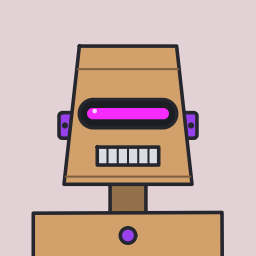
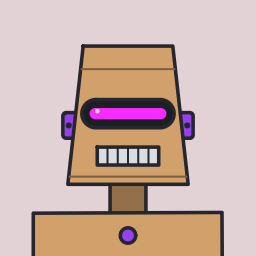
Make tall heads slightly narrower
Tall heads are now 470 wide instead of 500. The visor narrows from 380
to 360 on every robot so it keeps its clearance inside the narrower
trapezoid-family heads. The lower-rivet lift is measured from the normal
head's side, since the mouth it avoids is always at the center.

diff --git a/robot/part_head.go b/robot/part_head.go
@@ -52,8 +52,16 @@ var headPaths = map[string]func(dc *gg.Context, b Layout){
 }
 
 // cornerRadius is the bottom-corner radius of each head shape (0 if sharp).
-// The inverted dome's bottom is a half circle: corners of half its width.
-var cornerRadius = map[string]float64{"square": 18, "rounded": 120, "inverted-dome": headBox.W / 2}
+var cornerRadius = map[string]float64{"square": 18, "rounded": 120}
+
+// bottomRadius is the radius of the head's bottom corners; the inverted
+// dome's bottom is a half circle, so its corners are half the head's width.
+func bottomRadius(head string, b Layout) float64 {
+	if head == "inverted-dome" {
+		return b.W / 2
+	}
+	return cornerRadius[head]
+}
 
 // trapezoidInset is how far the trapezoid head's narrow end (its top, or its
 // bottom when inverted) sits inside the box.
@@ -80,7 +88,7 @@ func leftEdge(head string, b Layout, y float64) float64 {
 		dy := b.Y + r - y
 		return b.CX() - math.Sqrt(max(0, r*r-dy*dy))
 	}
-	r := cornerRadius[head]
+	r := bottomRadius(head, b)
 	if dy := y - (b.Y + b.H - r); r > 0 && dy > 0 {
 		x += r - math.Sqrt(max(0, r*r-dy*dy))
 	}

diff --git a/robot/part_details.go b/robot/part_details.go
@@ -15,10 +15,10 @@ func drawPanels(c *canvas, s Spec, b Layout) {
 const (
 	rivetRadius = 12.0
 	rivetInset  = 45.0 // distance in from the head's edge
-	// maxRivetEdge is how far in from the box side the head's edge may be at
-	// the lower rivets' height; on heads that narrow more than this toward
-	// the bottom (the inverted dome), the lower rivets move up instead of
-	// crowding the mouth.
+	// maxRivetEdge is how far in from the normal head box's side the head's
+	// edge may be at the lower rivets' height; on heads that narrow more than
+	// this toward the bottom, the lower rivets move up instead of crowding
+	// the mouth, which is always at the center.
 	maxRivetEdge = 60.0
 )
 
@@ -27,7 +27,7 @@ const (
 func rivetCenters(s Spec, b Layout) [][2]float64 {
 	f := faceBox(b)
 	lower := f.Y + f.H - 50
-	for lower > f.Y+f.H*0.55 && leftEdge(s.Head, b, lower)-b.X > maxRivetEdge {
+	for lower > f.Y+f.H*0.55 && leftEdge(s.Head, b, lower) > headBox.X+maxRivetEdge {
 		lower -= 2
 	}
 	var centers [][2]float64

diff --git a/robot/part_eyes.go b/robot/part_eyes.go
@@ -47,7 +47,7 @@ func roundEyeCenters(s Spec, b Layout) [][2]float64 {
 
 // The widest and tallest eye styles, which bound how far the face can move.
 const (
-	visorHalfWidth = 190 // half the visor's width
+	visorHalfWidth = 180 // half the visor's width
 	cyclopsRadius  = 95
 )
 
@@ -74,10 +74,11 @@ var eyeParts = map[string]part{
 		glow, y := parseHex(s.Glow), eyeY(s, b)
 		c.dc.DrawRoundedRectangle(b.CX()-visorHalfWidth, y-55, 2*visorHalfWidth, 110, 55)
 		c.fillOutlined(screen)
-		c.dc.DrawRoundedRectangle(b.CX()-160, y-22, 320, 44, 22)
+		bar := visorHalfWidth - 30.0 // the glow bar sits 30 in from the visor's ends
+		c.dc.DrawRoundedRectangle(b.CX()-bar, y-22, 2*bar, 44, 22)
 		c.dc.SetColor(glow)
 		c.dc.Fill()
-		highlight(c, b.CX()-130, y-10, 9)
+		highlight(c, b.CX()-bar+30, y-10, 9)
 	},
 	"cyclops": drawHAL,
 	"led": func(c *canvas, s Spec, b Layout) {

diff --git a/robot/render_test.go b/robot/render_test.go
@@ -390,7 +390,9 @@ func TestRenderHeadShapes(t *testing.T) {
 		{"dome", false, [2]float64{262, 700}, [2]float64{262, 290}},               // round top, square bottom
 		{"square", true, [2]float64{500, 215}, [2]float64{500, 215 + 400}},        // tall reaches y 180
 		{"square", false, [2]float64{500, 300}, [2]float64{500, 215}},             // normal starts at y 260
-		{"inverted-dome", true, [2]float64{275, 215}, [2]float64{275, 700}},
+		{"inverted-dome", true, [2]float64{285, 215}, [2]float64{285, 700}},
+		{"square", false, [2]float64{262, 400}, [2]float64{235, 400}}, // normal width reaches x 250
+		{"rounded", true, [2]float64{278, 400}, [2]float64{256, 400}}, // tall is narrower: reaches x 265
 	}
 	for _, c := range cases {
 		tall := c.tall

diff --git a/robot/canvas.go b/robot/canvas.go
@@ -25,12 +25,12 @@ type Layout struct{ X, Y, W, H float64 }
 func (b Layout) CX() float64 { return b.X + b.W/2 }
 
 // headBox is where a normal-height head is drawn, and tallHeadBox a tall
-// one: the same bottom, extended upward. Parts on the head's top (antenna,
+// one: the same bottom, extended upward and slightly narrower. Parts on the head's top (antenna,
 // top panel seam) follow its top; the face, ears and rivets are anchored to
 // its bottom (see faceBox), so a tall head reads as a taller forehead.
 var (
 	headBox     = Layout{X: 250, Y: 260, W: 500, H: 460}
-	tallHeadBox = Layout{X: 250, Y: 180, W: 500, H: 540}
+	tallHeadBox = Layout{X: 265, Y: 180, W: 470, H: 540}
 )
 
 // headLayout is the box s's head is drawn in.

diff --git a/docs/superpowers/specs/2026-09-24-bryc-design.md b/docs/superpowers/specs/2026-09-24-bryc-design.md
@@ -50,7 +50,7 @@ Each facet is either **pinned** (set by the user) or **unset** (randomized).
 | Facet        | Values                                              |
 |--------------|-----------------------------------------------------|
 | `head`       | `square`, `rounded`, `dome`, `inverted-dome` (flat top, round bottom), `trapezoid`, `inverted-trapezoid` (wide top, narrow bottom) |
-| `tall`       | `true`, `false` — head extends 80 units upward; the face, ears and rivets stay anchored to the head's bottom, so it reads as a taller forehead |
+| `tall`       | `true`, `false` — head extends 80 units upward and is 30 units narrower; the face, ears and rivets stay anchored to the head's bottom, so it reads as a taller forehead |
 | `eyes`       | `round`, `visor`, `cyclops`, `led`                  |
 | `eyecount`   | `2`, `4`, `6` — round eyes only: 1–3 stacked pairs, smaller as there are more. Resolved either way; the web page greys it out unless the eyes are round |
 | `eyesize`    | `1`, `2`, `3` — round eyes only: radius 25 / 40 / 58, capped at the eye count's size (6 eyes → 1, 4 → 2, 2 → 3); eyes keep their positions |
